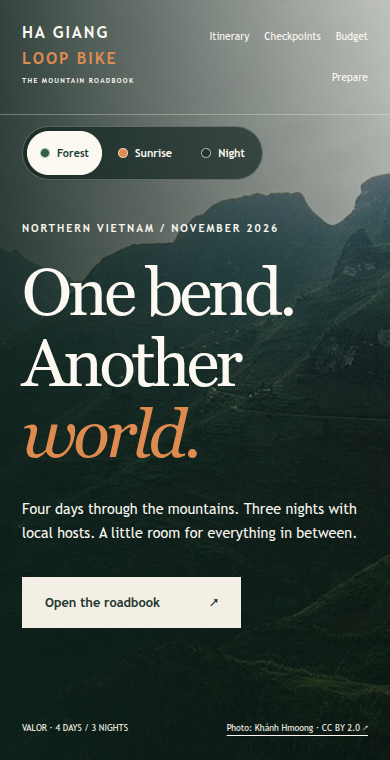
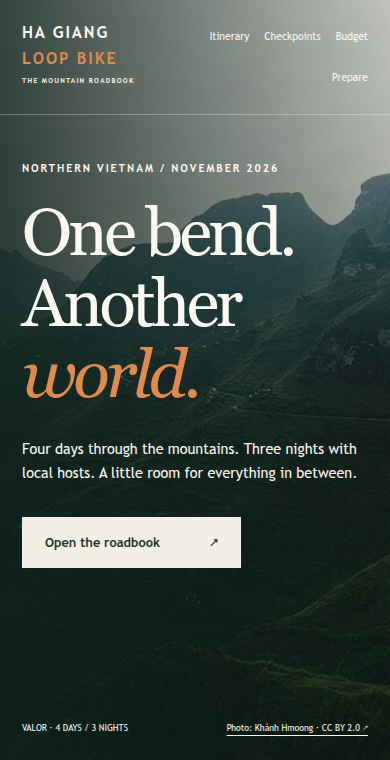
Move theme toolbar below hero and show current area weather

Changed region(s): [[0.0615, 0.2724, 0.9231, 0.6355], [0.0308, 0.6658, 0.9231, 0.8474], [0.0615, 0.1513, 0.7077, 0.2421]]

diff --git a/index.html b/index.html
@@ -22,14 +22,14 @@
     <a class="skip" href="#roadbook">Skip to itinerary</a>
     <header class="navigation"><a class="brand" href="#" aria-label="Ha Giang Loop Bike home">HA GIANG <span class="brand-line">LOOP BIKE</span><small>THE MOUNTAIN ROADBOOK</small></a><nav aria-label="Main navigation"><a href="#roadbook">Itinerary</a><a href="#checkpoints">Checkpoints</a><a href="#budget">Budget</a><a href="#prepare">Prepare</a></nav></header>
     <main>
-        <div class="appearance wrap"><div class="theme-switch" role="group" aria-label="Colour theme"><button type="button" data-theme-choice="forest" aria-pressed="true"><span class="theme-swatch" aria-hidden="true"></span>Forest</button><button type="button" data-theme-choice="sunrise" aria-pressed="false"><span class="theme-swatch" aria-hidden="true"></span>Sunrise</button><button type="button" data-theme-choice="night" aria-pressed="false"><span class="theme-swatch" aria-hidden="true"></span>Night</button></div><div class="appearance-links"><a href="#daily-weather">Daily weather ↗</a><a href="#crew">The crew ↗</a></div></div>
         <section class="hero"><img src="assets/ma-pi-leng.jpg" alt="The mountain road at Ma Pi Leng Pass, Ha Giang" fetchpriority="high"><div class="hero-copy"><p class="eyebrow">NORTHERN VIETNAM / NOVEMBER 2026</p><h1>One bend.<br>Another <em>world.</em></h1><p>Four days through the mountains. Three nights with local hosts. A little room for everything in between.</p><a class="button" href="#roadbook">Open the roadbook <span>↗</span></a></div><div class="hero-foot"><span>VALOR · 4 DAYS / 3 NIGHTS</span><a href="https://commons.wikimedia.org/wiki/File:Mountain_road_at_M%C3%A3_P%C3%AD_L%C3%A8ng_Pass,_H%C3%A0_Giang_Province,_Vietnam.jpg" target="_blank" rel="noopener">Photo: Khánh Hmoong · CC BY 2.0 ↗</a></div></section>
+        <div class="appearance wrap"><div class="theme-switch" role="group" aria-label="Colour theme"><button type="button" data-theme-choice="forest" aria-pressed="true"><span class="theme-swatch" aria-hidden="true"></span>Forest</button><button type="button" data-theme-choice="sunrise" aria-pressed="false"><span class="theme-swatch" aria-hidden="true"></span>Sunrise</button><button type="button" data-theme-choice="night" aria-pressed="false"><span class="theme-swatch" aria-hidden="true"></span>Night</button></div><div class="appearance-links"><a href="#daily-weather">Area weather ↗</a><a href="#crew">The crew ↗</a></div></div>
         <div class="trip-strip wrap" data-stats></div>
         <section class="section wrap" id="roadbook"><div class="section-heading"><div><p class="eyebrow">01 / THE PLAN</p><h2>Hanoi in.<br><em>Mountains ahead.</em></h2></div><p>Arrival on the 7th. The loop from the 8th to the 11th. Hanoi time before returning on the 14th. November 2026 is the provisional date assumption.</p></div><div class="arrival-note">The 7 November transfer requires an early Hanoi arrival. Confirm pickup and a proper pre-tour night in Ha Giang before booking flights.</div><div class="week-strip" data-week></div><div class="day-tabs" role="group" aria-label="Choose a loop day" data-tabs></div><div id="day-detail" data-day-detail aria-live="polite"></div><div class="map-block"><div><p class="eyebrow">FOLLOW THE BENDS</p><h3>A loop, not a race.</h3><p>Markers show approximate places. Lines indicate stop order, not navigation or road conditions.</p><p data-map-status></p></div><div id="route-map" aria-label="Interactive Ha Giang checkpoint map"></div></div></section>
         <section class="checkpoint-section" id="checkpoints"><div class="wrap section"><div class="section-heading"><div><p class="eyebrow">02 / PLACES TO PAUSE</p><h2>More than<br><em>a viewpoint.</em></h2></div><p>Passes, villages and small moments. The package stops anchor this plan; optional additions stay clearly labelled.</p></div><div class="filters" data-filters role="group" aria-label="Filter checkpoints by loop day"></div><div class="checkpoint-grid" data-checkpoints></div></div></section>
         <section class="section wrap" id="budget"><div class="section-heading"><div><p class="eyebrow">03 / THE NUMBERS</p><h2>Your crew.<br><em>Your way to ride.</em></h2></div><p>Mix self-riders, local-driver passengers and other ride options. Valor's listed prices are USD; local planning allowances stay in AUD. No assumed group size.</p></div><div class="ride-grid" data-rides></div><p class="fineprint" data-price-note></p><div class="group-controls"><label>People sharing a Hanoi room <input type="number" min="1" max="10" value="2" data-room-sharing></label><label>People per airport vehicle <input type="number" min="1" max="20" value="3" data-vehicle-sharing></label><label><input type="checkbox" checked data-bus> Include return Hanoi VIP buses</label></div><div class="budget-summary" data-budget-summary aria-live="polite"></div><div class="package-grid" data-package></div><h3>Listed optional extras · USD</h3><div data-extras></div><h3>Other planning allowances · AUD</h3><div class="table-scroll" role="region" aria-label="Trip budget table" tabindex="0"><table><thead><tr><th>Item</th><th>Unit / basis</th><th>Quantity</th><th>Subtotal</th><th>Status</th></tr></thead><tbody data-budget></tbody></table></div><p class="fineprint">Included meals and homestays are not added again. USD and AUD subtotals are not combined. Flights, insurance, VAT, fees and optional upgrades remain outside the partial estimate.</p></section>
         <section class="prepare-section" id="prepare"><div class="wrap section"><div class="section-heading"><div><p class="eyebrow">04 / BEFORE THE FIRST BEND</p><h2>Pack light.<br><em>Prepare well.</em></h2></div><p>Booking questions, gear and a few road habits that make the journey better.</p></div><div class="weather-note" data-weather></div><div class="advice-grid" data-advice></div><div class="checklist-heading"><h3>The departure checklist</h3><span data-progress></span></div><p class="fineprint">Ticked items are saved in this browser. They do not confirm any booking.</p><div class="checklist" data-checklist></div></div></section>
-        <section class="section wrap" id="daily-weather"><div class="section-heading"><div><p class="eyebrow">05 / THE SKY AHEAD</p><h2>Each day.<br><em>Its own weather.</em></h2></div><p>Forecasts follow the day's destination in Vietnam local time. Mountain roads and passes can differ from the forecast grid.</p></div><div class="weather-toolbar"><button class="text-button" type="button" data-weather-refresh>Refresh forecasts ↻</button><span data-weather-updated aria-live="polite"></span></div><div class="daily-weather-grid" data-daily-weather></div><p class="fineprint">Forecasts available up to 16 days ahead. Seasonal notes are not a forecast. Weather data: <a href="https://open-meteo.com/" target="_blank" rel="noopener">Open-Meteo</a> · <a href="https://creativecommons.org/licenses/by/4.0/" target="_blank" rel="noopener">CC BY 4.0</a>.</p></section>
+        <section class="section wrap" id="daily-weather"><div class="section-heading"><div><p class="eyebrow">05 / THE SKY AHEAD</p><h2>Weather now.<br><em>The route ahead.</em></h2></div><p>Each card follows its day's destination. Until the trip date enters the forecast window, we show today's area weather instead—not a November forecast.</p></div><div class="weather-toolbar"><button class="text-button" type="button" data-weather-refresh>Refresh weather ↻</button><span data-weather-updated aria-live="polite"></span></div><div class="daily-weather-grid" data-daily-weather></div><p class="fineprint">Current-area weather and trip forecasts are labelled separately. Forecasts extend up to 16 days ahead; conditions at mountain passes can differ. Weather data: <a href="https://open-meteo.com/" target="_blank" rel="noopener">Open-Meteo</a> · <a href="https://creativecommons.org/licenses/by/4.0/" target="_blank" rel="noopener">CC BY 4.0</a>.</p></section>
         <section class="section wrap" id="gallery"><p class="eyebrow">06 / POSTCARDS FROM THE ROUTE</p><h2>Places worth<br><em>looking up for.</em></h2><div class="gallery-grid" data-gallery></div></section>
         <section class="crew-section" id="crew"><div class="section wrap"><p class="eyebrow">06 / THE CREW</p><h2>Good company.<br><em>Questionable quotes.</em></h2><p data-crew-note></p><div class="crew-grid" data-members></div><h3>Unassigned joke ideas · not member quotes</h3><div class="quote-grid" data-jokes></div></div></section>
         <section class="section wrap research" id="research"><p class="eyebrow">07 / RESEARCH DESK</p><h2>Start with<br><em>the source.</em></h2><p>Selected package: Valor. Research checked 5 October 2026. This is a group planning guide, not an operator booking site.</p><div data-sources></div></section>

diff --git a/styles.css b/styles.css
@@ -20,18 +20,19 @@ em { font-weight:400; }
 .section { padding-block:clamp(65px,8vw,115px); }
 .eyebrow { font-size:.67rem; font-weight:600; letter-spacing:.18em; text-transform:uppercase; margin-bottom:18px; }
 .navigation { position:absolute; top:0; z-index:5; width:100%; display:flex; align-items:center; justify-content:space-between; gap:24px; padding:26px var(--gutter); color:var(--paper); border-bottom:1px solid rgb(252 249 242 / .3); }
-.appearance{position:absolute;top:118px;right:0;z-index:6;display:flex;align-items:center;justify-content:flex-end;flex-wrap:wrap;gap:18px;color:var(--on-forest);font-size:.7rem}
-.theme-switch{display:inline-flex;gap:3px;padding:4px;border:1px solid rgb(252 249 242 / .25);border-radius:999px;background:rgb(14 33 27 / .65)}
-.theme-switch button{display:flex;align-items:center;justify-content:center;gap:7px;min-height:36px;padding:7px 11px;border:1px solid transparent;border-radius:999px;background:transparent;color:var(--on-forest);font-size:.68rem;line-height:1;font-weight:600;white-space:nowrap}
-.theme-switch button:hover{background:rgb(252 249 242 / .12)}
-.theme-switch button[aria-pressed="true"]{background:var(--on-forest);color:#183d35;border-color:var(--on-forest)}
-.theme-switch button:focus-visible{outline:2px solid var(--on-forest);outline-offset:3px}
+.appearance{position:static;display:flex;align-items:center;justify-content:space-between;flex-wrap:wrap;gap:12px;padding-block:14px;border-bottom:1px solid var(--line);color:var(--muted);font-size:.7rem}
+.theme-switch{display:inline-flex;gap:2px;padding:3px;border:1px solid var(--line);border-radius:999px;background:var(--paper)}
+.theme-switch button{display:flex;align-items:center;justify-content:center;gap:6px;min-height:30px;padding:5px 9px;border:1px solid transparent;border-radius:999px;background:transparent;color:var(--muted);font-size:.63rem;line-height:1;font-weight:600;white-space:nowrap}
+.theme-switch button:hover{background:var(--crew-surface)}
+.theme-switch button[aria-pressed="true"]{background:var(--forest);color:var(--on-forest);border-color:var(--forest)}
+.theme-switch button:focus-visible{outline:2px solid var(--rust);outline-offset:3px}
 .theme-swatch{width:10px;height:10px;flex-shrink:0;border-radius:50%;border:1px solid rgb(252 249 242 / .6);background:#315f4c}
 [data-theme-choice="sunrise"] .theme-swatch{background:#df8b50}[data-theme-choice="night"] .theme-swatch{background:#21352e}
 .appearance-links{display:flex;gap:14px}.appearance-links a{text-decoration:none}.appearance-links a:hover{text-decoration:underline}
 .navigation,.hero,.hero-foot,.day-photo figcaption{color:var(--on-forest)}
 .daily-weather-grid{display:grid;grid-template-columns:repeat(4,minmax(0,1fr));gap:16px}.daily-weather-grid article{padding:22px;border:1px solid var(--line);background:var(--paper)}.daily-weather-grid h3{font-size:1.6rem;margin-bottom:20px}.daily-weather-grid small{color:var(--muted);font-size:.65rem}.weather-result{font-size:.85rem;min-height:85px}.weather-result strong{font:1.6rem var(--display)}.weather-toolbar{display:flex;align-items:center;flex-wrap:wrap;gap:24px;margin-bottom:24px}.weather-toolbar span{font-size:.75rem;color:var(--muted)}
-@media(max-width:700px){.daily-weather-grid{grid-template-columns:repeat(2,minmax(0,1fr))}.appearance{justify-content:flex-start;left:0;top:126px;gap:10px}.theme-switch button{min-height:44px;padding:8px 12px}.appearance-links{display:none}.hero{padding-top:210px}}
+@media(max-width:700px){.daily-weather-grid{grid-template-columns:repeat(2,minmax(0,1fr))}.appearance{gap:8px}.theme-switch button{min-height:32px}.appearance-links{display:none}}
+.weather-mode{display:block;margin:16px 0 12px;color:var(--rust);font-size:.68rem;font-weight:600}.weather-trip-note{margin-top:12px;color:var(--muted);font-size:.65rem}
 .brand { text-decoration:none; font-size:1.15rem; font-weight:bold; letter-spacing:.12em; }
 .brand span { color:var(--orange); }
 .brand .brand-line { display:block; }
@@ -161,4 +162,3 @@ footer { display:flex; flex-wrap:wrap; align-items:center; justify-content:space
 @media(max-width:620px){.navigation nav{max-width:190px}.navigation .brand{font-size:1rem}.navigation .brand small{font-size:.43rem;max-width:125px}}
 .button{color:var(--ink)}.route-pin span{color:var(--on-forest);border-color:var(--on-forest)}
 @media print{.appearance,.weather-toolbar{display:none}}
-@media(max-width:700px){.hero{padding-top:220px}}

diff --git a/app.js b/app.js
@@ -1,4 +1,4 @@
-import {forecastStatus, fetchForecast, weatherTimezone} from './scripts/weather.mjs';
+import {forecastStatus, weatherTarget, fetchForecast, weatherTimezone} from './scripts/weather.mjs';
 const $ = selector => document.querySelector(selector);
 const e = value => String(value ?? '').replace(/[&<>"']/g, c => ({'&':'&amp;','<':'&lt;','>':'&gt;','"':'&quot;',"'":'&#39;'}[c]));
 const money = value => value === null ? 'TBC' : new Intl.NumberFormat('en-AU',{style:'currency',currency:'AUD',maximumFractionDigits:0}).format(value);
@@ -26,16 +26,23 @@ async function renderDailyWeather() {
     refreshingWeather = true;
     const button = $('[data-weather-refresh]'); button.disabled = true;
     const now = new Date();
-    $('[data-daily-weather]').innerHTML = trip.weather.days.map((location,index) => '<article data-weather-day="'+index+'"><p class="eyebrow">'+e(date(location.date))+'</p><h3>'+e(location.name)+'</h3><p class="weather-result">'+(forecastStatus(location.date,now)==='available'?'Loading forecast…':forecastStatus(location.date,now)==='past'?'Trip date has passed. Live forecast unavailable.':'Forecast not available yet.')+'</p><small>Destination area · '+e(weatherTimezone)+'</small></article>').join('');
+    const requests = new Map();
+    $('[data-daily-weather]').innerHTML = trip.weather.days.map((location,index) => {
+        const target = weatherTarget(location,now);
+        return '<article data-weather-day="'+index+'"><p class="eyebrow">TRIP DAY / '+e(date(location.date))+'</p><h3>'+e(location.name)+'</h3><span class="weather-mode">'+(target.isTripForecast?'Trip-date forecast':'Today’s area weather')+' · '+e(date(target.location.date))+'</span><p class="weather-result">Loading area weather…</p>'+(target.isTripForecast?'':'<p class="weather-trip-note">'+(forecastStatus(location.date,now)==='past'?'Trip date has passed.':'Trip-date forecast will appear closer to departure.')+'</p>')+'<small>Vietnam local time · '+e(weatherTimezone)+'</small></article>';
+    }).join('');
     await Promise.all(trip.weather.days.map(async (location,index) => {
-        if (forecastStatus(location.date,now) !== 'available') return;
+        const target = weatherTarget(location,now);
         const element = $('[data-weather-day="'+index+'"] .weather-result');
         try {
-            const forecast = await fetchForecast(location,{now});
-            element.innerHTML = '<strong>'+Math.round(forecast.low)+'–'+Math.round(forecast.high)+' °C</strong><br>'+e(forecast.description)+' · rain probability '+Math.round(forecast.rain)+'%<br><small>Fetched '+e(new Intl.DateTimeFormat('en-AU',{timeZone:weatherTimezone,hour:'2-digit',minute:'2-digit',day:'numeric',month:'short'}).format(new Date(forecast.updated)))+' (Vietnam)</small>';
-        } catch { element.textContent = 'Forecast unavailable. Try again when connected.'; }
+            const key = target.location.coordinates.join(',')+'|'+target.location.date;
+            if (!requests.has(key)) requests.set(key,fetchForecast(target.location,{now}));
+            const forecast = await requests.get(key);
+            const current = !target.isTripForecast ? forecast.current : null;
+            element.innerHTML = (current?'<strong>'+Math.round(current.temperature)+' °C now</strong><br>'+e(current.description)+(current.wind===null?'':' · wind '+Math.round(current.wind)+' km/h')+'<br>Today: ':'<strong>')+Math.round(forecast.low)+'–'+Math.round(forecast.high)+' °C'+(current?'':'</strong>')+'<br>'+(!current?e(forecast.description)+' · ':'')+'Rain probability '+Math.round(forecast.rain)+'%<br><small>Fetched '+e(new Intl.DateTimeFormat('en-AU',{timeZone:weatherTimezone,hour:'2-digit',minute:'2-digit',day:'numeric',month:'short'}).format(new Date(forecast.updated)))+' (Vietnam)</small>';
+        } catch { element.textContent = 'Area weather could not load. Refresh to retry.'; }
     }));
-    $('[data-weather-updated]').textContent = 'Checked in Vietnam local time. Dates outside the forecast window remain unavailable.';
+    $('[data-weather-updated]').textContent = 'Today’s weather is shown where trip-date forecasts are not yet available. All times are local to Vietnam.';
     button.disabled = false; refreshingWeather = false;
 }
 $('[data-weather-refresh]').addEventListener('click',()=>{if(trip)renderDailyWeather();});

diff --git a/README.md b/README.md
@@ -56,6 +56,6 @@ Leaflet keeps checkpoint interactions; MapLibre renders OpenFreeMap's Positron v
 
 The theme selector offers Forest & cream, Sunrise & clay and Night ride; preference is stored in this browser. Tokens preserve the editorial roadbook layout.
 
-Daily weather locations/dates live in `trip.json` → `weather.days`. The browser calls [Open-Meteo's forecast API](https://open-meteo.com/en/docs) only for dates within today through 15 days ahead, using `Asia/Ho_Chi_Minh`. It displays minimum/maximum temperature, rain probability and fetch time, with explicit unavailable/error states. These are area-grid forecasts, not forecasts for every pass. The free API is for this non-commercial personal group guide; review [usage terms](https://open-meteo.com/en/terms) before adding advertising or commercial booking functions. Unit tests stub API responses, so CI doesn't depend on live weather.
+Daily weather locations/dates live in `trip.json` → `weather.days`. The browser calls [Open-Meteo's API](https://open-meteo.com/en/docs), using `Asia/Ho_Chi_Minh`. Within the 16-day forecast window it displays the actual trip-date forecast; otherwise it shows today's current temperature, conditions, wind and daily outlook for that destination. Cards clearly separate the trip date from the weather date. Repeated area/date requests are shared; network failures show a retry message. These are area-grid estimates, not readings at every mountain pass. The free API is for this non-commercial personal group guide; review [usage terms](https://open-meteo.com/en/terms) before adding advertising or commercial booking functions. Unit and browser tests stub API responses so forecast assertions remain deterministic.
 
 `data/member-template.json` shows the member schema. Names, portraits and joke quotes remain absent until supplied and approved; the consent gate is browser-tested. See `reports/backlog.md` for completed and remaining tasks.

diff --git a/reports/theme-weather-correction.md b/reports/theme-weather-correction.md
@@ -1,0 +1,13 @@
+# Theme placement and useful weather
+
+## Theme control
+
+Moved the switch out of the absolute-positioned hero/header overlay into a normal-flow toolbar immediately after the hero. Buttons are 30px desktop / 32px mobile, and theme-aware rather than translucent over the photo. Browser tests check toolbar bounds against the hero and navigation at 320/390/768px. The frontend-design skill informed this quieter editorial placement; typography and palette options remain unchanged.
+
+## Weather behaviour
+
+For each route-day area, request its trip-date forecast when inside the API horizon; otherwise request today's current temperature/conditions/wind and daily min/max/rain probability. Label these as today's area weather with the actual weather date; the trip date remains in the card heading. Never imply that today's readings predict November. Identical area/date requests are shared during a refresh. API failure has a retry state rather than fabricated values.
+
+## Tests
+
+Unit tests cover horizon selection, unchanged itinerary dates, current-condition extraction and error handling. Browser fixtures cover all eight populated cards, shared requests, correct forecast/current labels and retry after API failure. Test screenshot temperatures are fixtures, not recorded real-world readings. Production verification checks real API responses after CI/CD publication.

diff --git a/reports/backlog.md b/reports/backlog.md
@@ -6,7 +6,7 @@ Implemented: Forest & cream, Sunrise & clay and Night ride using shared CSS toke
 
 ## Daily, location-based weather
 
-Implemented: Open-Meteo daily destination-area forecasts, Vietnam local dates/time, min/max temperature, rain probability, fetch time and CC BY attribution. Dates outside the 16-day window say "Forecast not available yet"; passed dates and network failures have separate states. Seasonal context remains separate. Unit tests cover horizon boundaries, date alignment, incomplete responses and API errors. API is free for this non-commercial personal guide; revisit terms if its purpose changes.
+Implemented: Open-Meteo destination-area weather, Vietnam local dates/time, temperature, wind, daily outlook, rain probability, fetch time and CC BY attribution. Dates outside the 16-day forecast window now show labelled today's-area weather instead of empty forecast cards. In-window dates use the trip-date forecast. Seasonal context remains separate. Unit tests cover selection, horizon boundaries, date alignment, incomplete responses and API errors. Browser tests cover populated cards and retry states. API is free for this non-commercial personal guide; revisit terms if its purpose changes.
 
 ## Tour members
 
